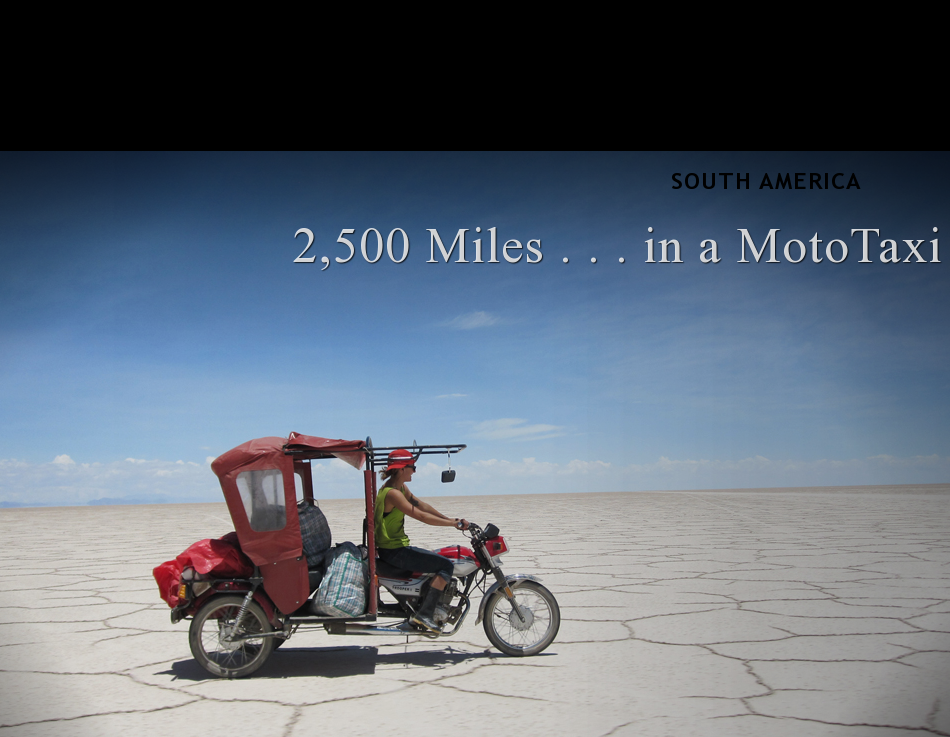
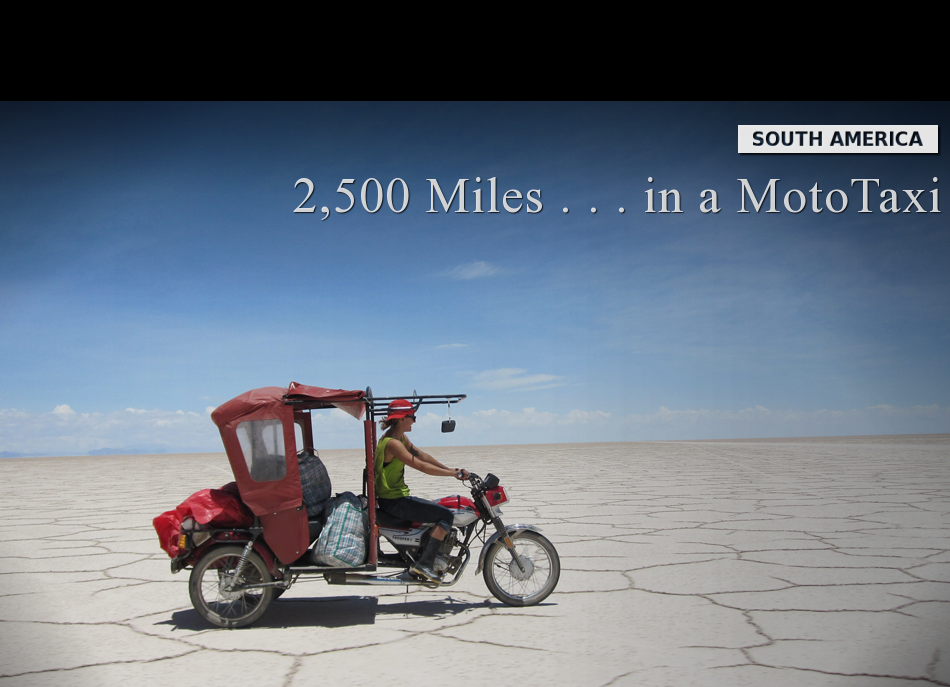
gmail

diff --git a/compass/stylesheets/exposures/mototaxi-junket.css b/compass/stylesheets/exposures/mototaxi-junket.css
@@ -580,16 +580,17 @@ p {
 
 /* line 9, ../../src/exposures/mototaxi-junket.scss */
 #article-header {
-  background: #2E2E2E !important;
+  background: url(/img/header-soft-gradient2.png) repeat-x !important;
   height: 80px;
+  border-bottom: 1px solid #2e2e2e;
 }
 
-/* line 14, ../../src/exposures/mototaxi-junket.scss */
+/* line 15, ../../src/exposures/mototaxi-junket.scss */
 #content-wrapper {
   background: #000000;
 }
 
-/* line 18, ../../src/exposures/mototaxi-junket.scss */
+/* line 19, ../../src/exposures/mototaxi-junket.scss */
 #content {
   display: inline;
   float: left;
@@ -609,13 +610,15 @@ p {
   position: relative;
   font-family: Georgia, Serif;
   line-height: 1.3em;
-  color: #00000;
+  color: #303030;
+  -moz-border-radius: 10px;
+  border-radius: 10px;
 }
 /* line 138, ../../../../../Library/Ruby/Gems/1.8/gems/compass-0.10.4/frameworks/blueprint/stylesheets/blueprint/_grid.scss */
 * html #content {
   overflow-x: hidden;
 }
-/* line 36, ../../src/exposures/mototaxi-junket.scss */
+/* line 39, ../../src/exposures/mototaxi-junket.scss */
 #content #content-body {
   float: bottom;
   height: 400px;
@@ -623,14 +626,14 @@ p {
   margin: auto;
   border-bottom: 1px #eaeaea;
 }
-/* line 44, ../../src/exposures/mototaxi-junket.scss */
+/* line 47, ../../src/exposures/mototaxi-junket.scss */
 #content #content-header {
-  background: #0c0c0c url(/img/mototaxi-junket/mototaxibg1.png) no-repeat scroll 0 top;
+  background: url(/img/mototaxi-junket/mototaxibg1.png) no-repeat scroll 0 top;
   width: 950px;
   height: 736px;
   position: top;
 }
-/* line 49, ../../src/exposures/mototaxi-junket.scss */
+/* line 52, ../../src/exposures/mototaxi-junket.scss */
 #content #content-header #title-container {
   width: 950px;
   height: 736px;
@@ -638,7 +641,7 @@ p {
   float: none;
   position: relative;
 }
-/* line 56, ../../src/exposures/mototaxi-junket.scss */
+/* line 59, ../../src/exposures/mototaxi-junket.scss */
 #content #content-header #title-container #article-title {
   background: transparent;
   margin-left: 0px;
@@ -649,7 +652,7 @@ p {
   font-weight: none;
   font-family: Times,Times,serif;
 }
-/* line 65, ../../src/exposures/mototaxi-junket.scss */
+/* line 68, ../../src/exposures/mototaxi-junket.scss */
 #content #content-header #title-container #article-subtitle {
   background: transparent;
   margin-left: 0px;
@@ -659,7 +662,7 @@ p {
   font-family: ‘Arial Narrow’, sans-serif;
   font-size: 20px;
 }
-/* line 73, ../../src/exposures/mototaxi-junket.scss */
+/* line 76, ../../src/exposures/mototaxi-junket.scss */
 #content #content-header #title-container #fb-like-button {
   background: transparent;
   margin-left: 0px;
@@ -667,8 +670,9 @@ p {
   padding-top: 125px;
   padding-bottom: 0px;
   padding-left: 5px;
+  color: #ececec;
 }
-/* line 80, ../../src/exposures/mototaxi-junket.scss */
+/* line 84, ../../src/exposures/mototaxi-junket.scss */
 #content #content-header #title-container #article-highlights {
   background: transparent;
   margin-left: 0px;
@@ -684,17 +688,17 @@ p {
   border-top: 1px solid #ffffff;
   border-bottom: 1px solid #ffffff;
 }
-/* line 94, ../../src/exposures/mototaxi-junket.scss */
+/* line 98, ../../src/exposures/mototaxi-junket.scss */
 #content #content-header #title-container .white-box {
   background: url(/img/white-1p-70.png) !important;
 }
 
-/* line 101, ../../src/exposures/mototaxi-junket.scss */
+/* line 105, ../../src/exposures/mototaxi-junket.scss */
 .footer {
   background: white url(/img/pagebottom.jpg) no-repeat scroll 0 bottom !important;
 }
 
-/* line 104, ../../src/exposures/mototaxi-junket.scss */
+/* line 108, ../../src/exposures/mototaxi-junket.scss */
 .quote {
   border-top: 2px solid #ffffff;
   border-bottom: 2px solid #ffffff;
@@ -702,33 +706,45 @@ p {
   vertical-align: center;
 }
 
-/* line 111, ../../src/exposures/mototaxi-junket.scss */
+/* line 115, ../../src/exposures/mototaxi-junket.scss */
+.image {
+  border: 2px solid white;
+}
+
+/* line 119, ../../src/exposures/mototaxi-junket.scss */
+.justify {
+  text-align: justify;
+}
+
+/* line 123, ../../src/exposures/mototaxi-junket.scss */
 .border {
   border: 1px solid #d5d5d5;
 }
 
-/* line 115, ../../src/exposures/mototaxi-junket.scss */
+/* line 127, ../../src/exposures/mototaxi-junket.scss */
 .textborder {
   border: 1px solid #ffffff;
   margin-top: 0px;
 }
 
-/* line 120, ../../src/exposures/mototaxi-junket.scss */
+/* line 132, ../../src/exposures/mototaxi-junket.scss */
 .columnbackground {
   background: #0c0c0c;
 }
 
-/* line 124, ../../src/exposures/mototaxi-junket.scss */
+/* line 136, ../../src/exposures/mototaxi-junket.scss */
 .whitetext {
   color: #fffff;
 }
 
-/* line 128, ../../src/exposures/mototaxi-junket.scss */
+/* line 140, ../../src/exposures/mototaxi-junket.scss */
 .blue-box {
-  background: #f4f4f4;
-  border: 1px solid #d5d5d5;
+  background: #eeeeee;
+  border: 1px solid #eeeeee;
+  -moz-border-radius: 10px;
+  border-radius: 10px;
 }
-/* line 131, ../../src/exposures/mototaxi-junket.scss */
+/* line 145, ../../src/exposures/mototaxi-junket.scss */
 .blue-box .title {
   background: url(/img/right-arrow-black.png) no-repeat;
   text-transform: uppercase;
@@ -737,25 +753,25 @@ p {
   margin: 10px;
   padding-left: 20px;
 }
-/* line 140, ../../src/exposures/mototaxi-junket.scss */
+/* line 154, ../../src/exposures/mototaxi-junket.scss */
 .blue-box ul {
   padding: 5px;
 }
-/* line 142, ../../src/exposures/mototaxi-junket.scss */
+/* line 156, ../../src/exposures/mototaxi-junket.scss */
 .blue-box ul li {
   margin-left: 25px;
 }
-/* line 146, ../../src/exposures/mototaxi-junket.scss */
+/* line 160, ../../src/exposures/mototaxi-junket.scss */
 .blue-box p {
   padding: 10px;
 }
 
-/* line 151, ../../src/exposures/mototaxi-junket.scss */
+/* line 165, ../../src/exposures/mototaxi-junket.scss */
 #essentials {
   height: 200px;
 }
 
-/* line 156, ../../src/exposures/mototaxi-junket.scss */
+/* line 170, ../../src/exposures/mototaxi-junket.scss */
 #share-via-wrapper {
   display: block;
   float: none;
@@ -763,7 +779,7 @@ p {
   height: 90px;
   margin: auto;
 }
-/* line 162, ../../src/exposures/mototaxi-junket.scss */
+/* line 176, ../../src/exposures/mototaxi-junket.scss */
 #share-via-wrapper #share-via {
   width: 630px;
   height: 50px;
@@ -771,26 +787,28 @@ p {
   border: #d5d5d5 1px solid;
   padding: 20px 5px 0px 5px;
   background-color: #ffffff;
+  -moz-border-radius: 10px;
+  border-radius: 10px;
   text-align: center;
   font-size: 18px;
 }
-/* line 171, ../../src/exposures/mototaxi-junket.scss */
+/* line 187, ../../src/exposures/mototaxi-junket.scss */
 #share-via-wrapper #share-via a {
   height: 30px;
   display: inline;
   text-decoration: none;
   color: #000000;
 }
-/* line 177, ../../src/exposures/mototaxi-junket.scss */
+/* line 193, ../../src/exposures/mototaxi-junket.scss */
 #share-via-wrapper #share-via a:hover, #share-via-wrapper #share-via a:visited:hover {
   color: #1f1f55;
 }
-/* line 180, ../../src/exposures/mototaxi-junket.scss */
+/* line 196, ../../src/exposures/mototaxi-junket.scss */
 #share-via-wrapper #share-via img {
   vertical-align: middle;
 }
 
-/* line 186, ../../src/exposures/mototaxi-junket.scss */
+/* line 202, ../../src/exposures/mototaxi-junket.scss */
 #dummy-ie-div {
   height: 30px;
 }

diff --git a/compass/src/exposures/mototaxi-junket.scss b/compass/src/exposures/mototaxi-junket.scss
@@ -7,8 +7,9 @@
 }
 
 #article-header {
-  background:  #2E2E2E !important;
+  background:  url(/img/header-soft-gradient2.png) repeat-x !important;
   height: 80px;
+  border-bottom: 1px solid #2e2e2e
 }
 
 #content-wrapper {
@@ -31,7 +32,9 @@
   position: relative;
   font-family: Georgia, Serif;
   line-height: 1.3em;
-  color: #00000;
+  color: #303030;
+  -moz-border-radius: 10px;
+  border-radius: 10px;
   
   #content-body {
     float: bottom;
@@ -42,7 +45,7 @@
   }
 
   #content-header {
-    background: #0c0c0c url(/img/mototaxi-junket/mototaxibg1.png) no-repeat scroll 0 top;
+    background:  url(/img/mototaxi-junket/mototaxibg1.png) no-repeat scroll 0 top;
     width: 950px;
     height: 736px;
     position: top;
@@ -75,6 +78,7 @@
         padding-top: 125px;
         padding-bottom: 0px;
         padding-left: 5px;
+        color: #ececec;
       }
     
       #article-highlights {
@@ -108,6 +112,14 @@
   vertical-align: center;
 }
 
+.image {
+  border: 2px solid white;
+}
+
+.justify {
+  text-align: justify;
+}
+
 .border {
   border: 1px solid #d5d5d5;
 }
@@ -126,8 +138,10 @@
 }
 
 .blue-box {
-  background: #f4f4f4;
-  border: 1px solid #d5d5d5;
+  background: #eeeeee;
+  border: 1px solid #eeeeee;
+  -moz-border-radius: 10px;
+  border-radius: 10px;
   .title {
     background: url(/img/right-arrow-black.png) no-repeat;
     text-transform: uppercase;
@@ -166,6 +180,8 @@
     border: #d5d5d5 1px solid;
     padding: 20px 5px 0px 5px;
     background-color: #ffffff;
+    -moz-border-radius: 10px;
+    border-radius: 10px;
     text-align: center;
     font-size: 18px;
     a {
